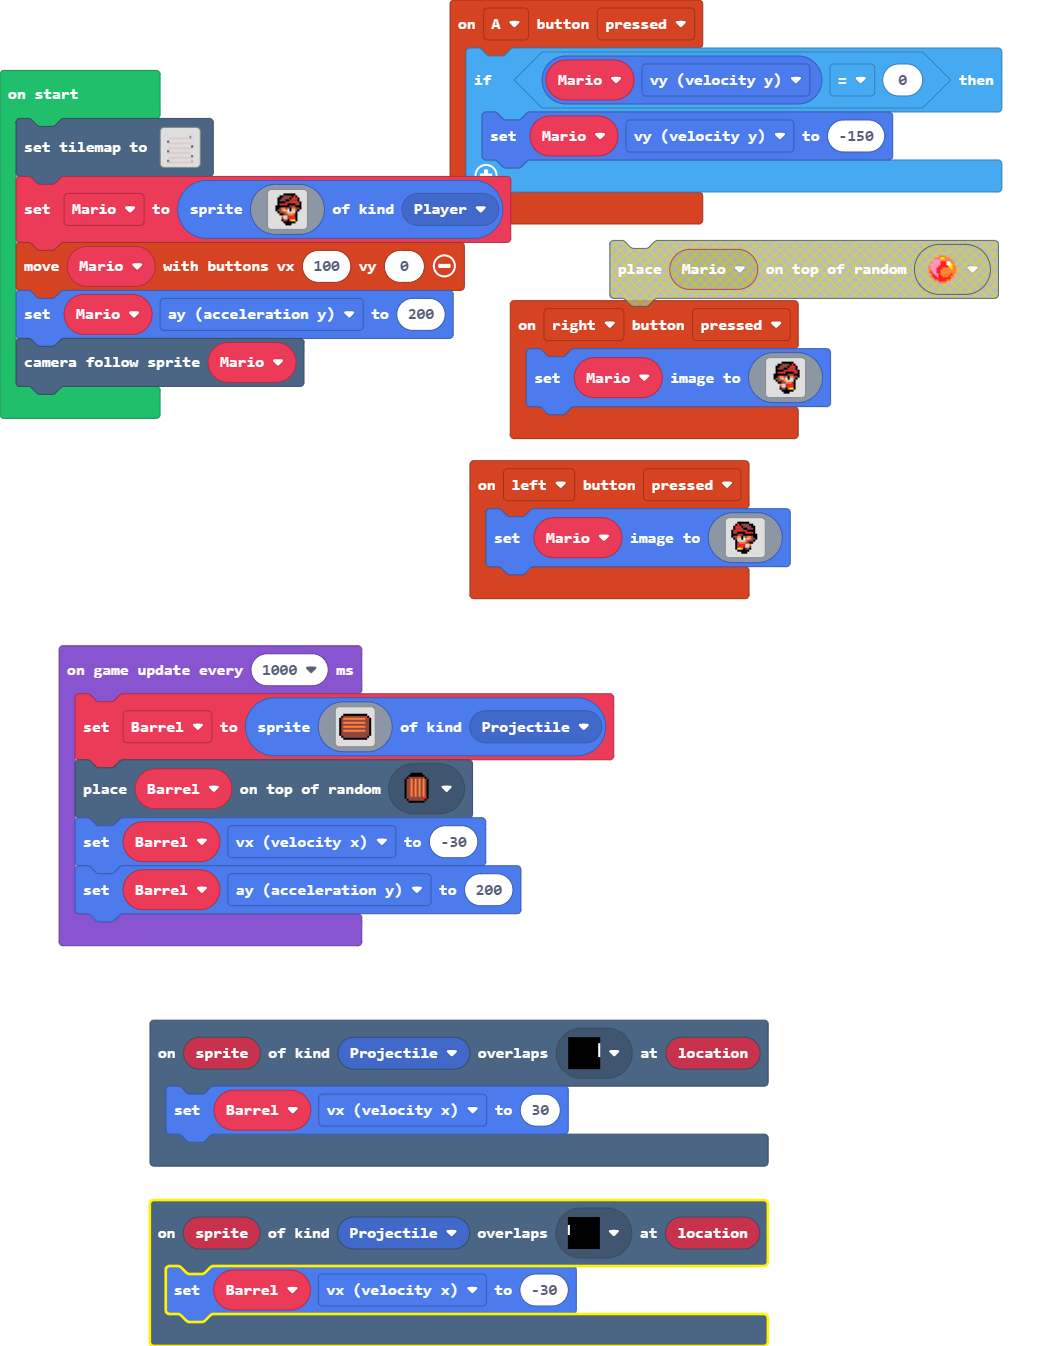
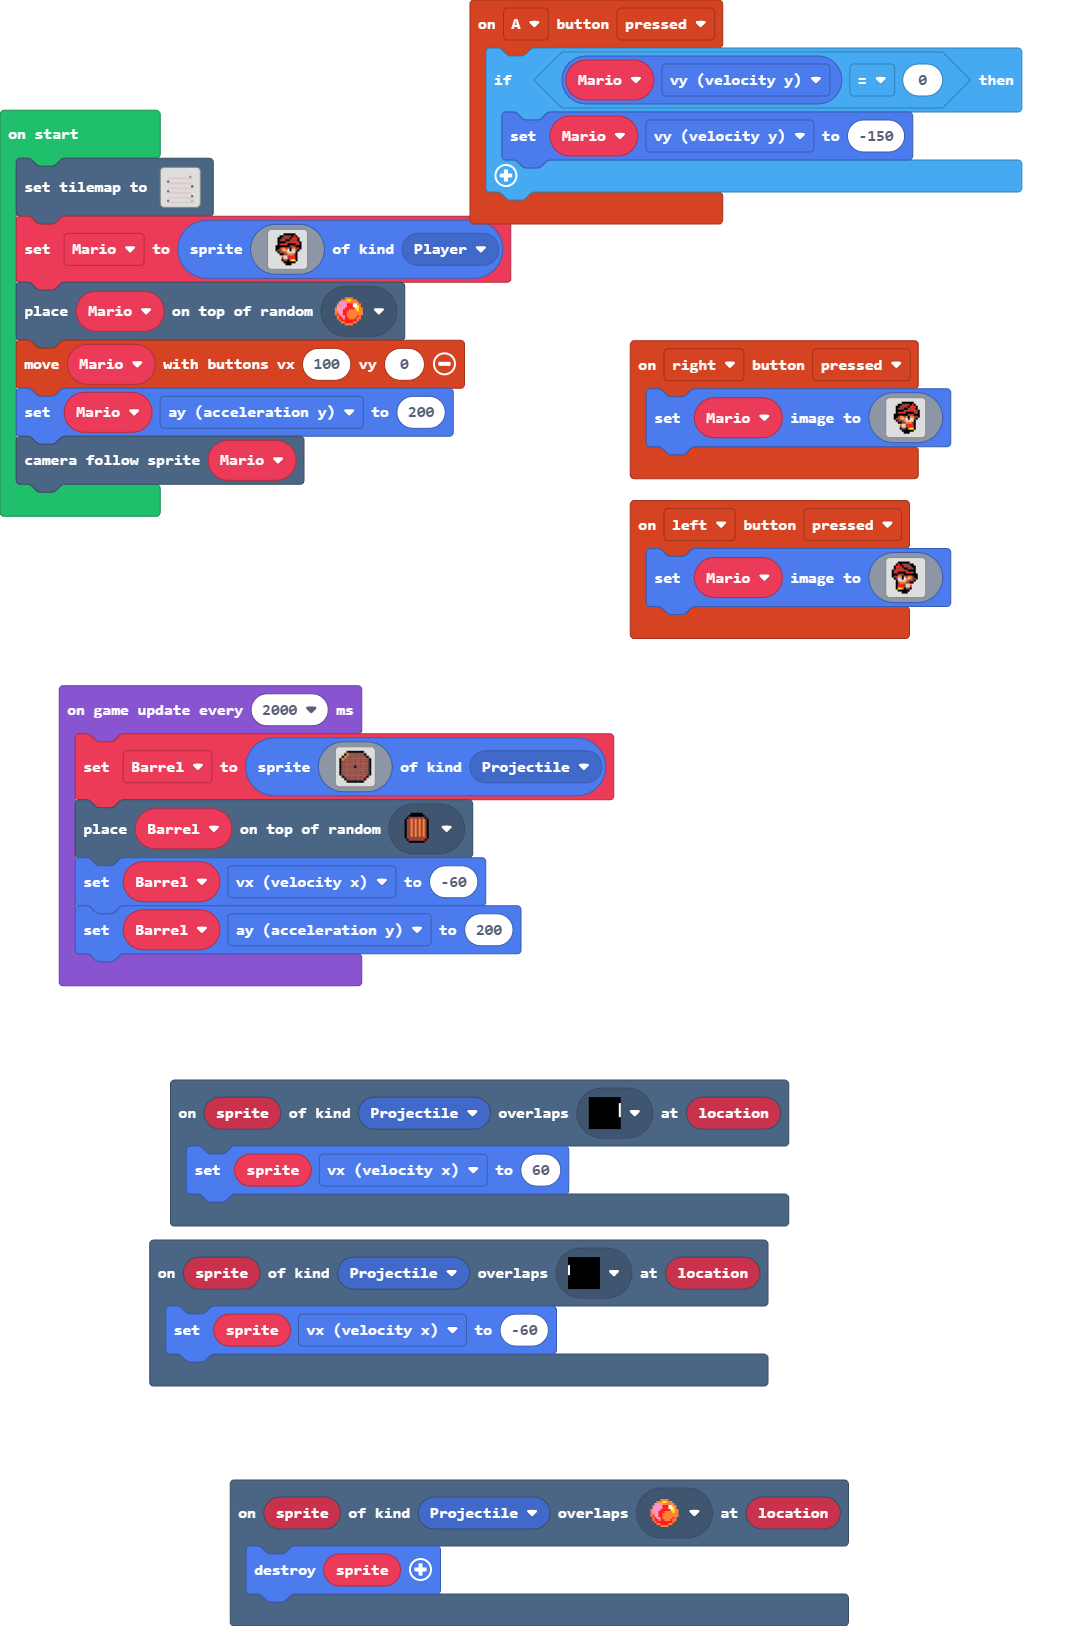
Barrels now roll down the whole level.

diff --git a/main.ts b/main.ts
@@ -1,5 +1,5 @@
 scene.onOverlapTile(SpriteKind.Projectile, assets.tile`myTile`, function (sprite, location) {
-    Barrel.vx = 30
+    sprite.vx = 60
 })
 controller.A.onEvent(ControllerButtonEvent.Pressed, function () {
     if (Mario.vy == 0) {
@@ -47,7 +47,10 @@ controller.right.onEvent(ControllerButtonEvent.Pressed, function () {
         `)
 })
 scene.onOverlapTile(SpriteKind.Projectile, assets.tile`myTile0`, function (sprite, location) {
-    Barrel.vx = -30
+    sprite.vx = -60
+})
+scene.onOverlapTile(SpriteKind.Projectile, sprites.dungeon.collectibleRedCrystal, function (sprite, location) {
+    sprite.destroy()
 })
 let Barrel: Sprite = null
 let Mario: Sprite = null
@@ -70,26 +73,27 @@ Mario = sprites.create(img`
     . . . . . . f f f f f f . . . . 
     . . . . . . . f f f . . . . . . 
     `, SpriteKind.Player)
+tiles.placeOnRandomTile(Mario, sprites.dungeon.collectibleRedCrystal)
 controller.moveSprite(Mario, 100, 0)
 Mario.ay = 200
 scene.cameraFollowSprite(Mario)
-game.onUpdateInterval(1000, function () {
+game.onUpdateInterval(2000, function () {
     Barrel = sprites.create(img`
-        . . f f f f f f f f f f f f . . 
-        . f e e e e e e e e e e e 2 f . 
-        f e 4 4 4 4 4 4 4 4 4 4 4 e 2 f 
-        f e e e e e e e e e e e e e e f 
-        f e 4 4 4 4 4 4 4 4 4 4 4 e e f 
-        f e e e e e e e e e e e e e e f 
-        f e 4 4 4 4 4 4 4 4 4 4 4 e e f 
-        f e e e e e e e e e e e e e e f 
-        f e 4 4 4 4 4 4 4 4 4 4 4 e e f 
-        f e e e e e e e e e e e e e e f 
-        f e e e e e e e e e e e e e e f 
-        . f e e e e e e e e e e e e f . 
-        . . f f f f f f f f f f f f . . 
+        . . . f f f f f f f . . . 
+        . . f 4 e e e e e e f . . 
+        . f 4 e e e e e e e e f . 
+        f 4 e e e e e e e e e e f 
+        f e e e e e e e e e e e f 
+        f e e e e e e e e e e e f 
+        f e e e e e f e e e e e f 
+        f e e e e e e e e e e e f 
+        f e e e e e e e e e e e f 
+        f e e e e e e e e e e e f 
+        . f e e e e e e e e 2 f . 
+        . . f e e e e e e 2 f . . 
+        . . . f f f f f f f . . . 
         `, SpriteKind.Projectile)
     tiles.placeOnRandomTile(Barrel, assets.tile`myTile1`)
-    Barrel.vx = -30
+    Barrel.vx = -60
     Barrel.ay = 200
 })
